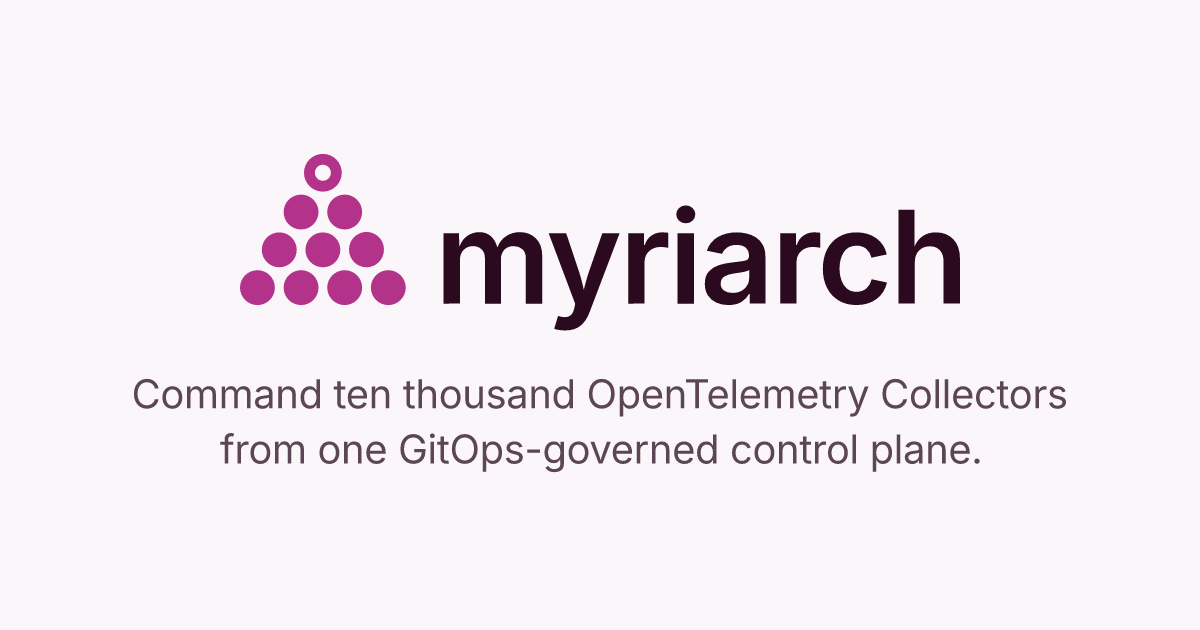
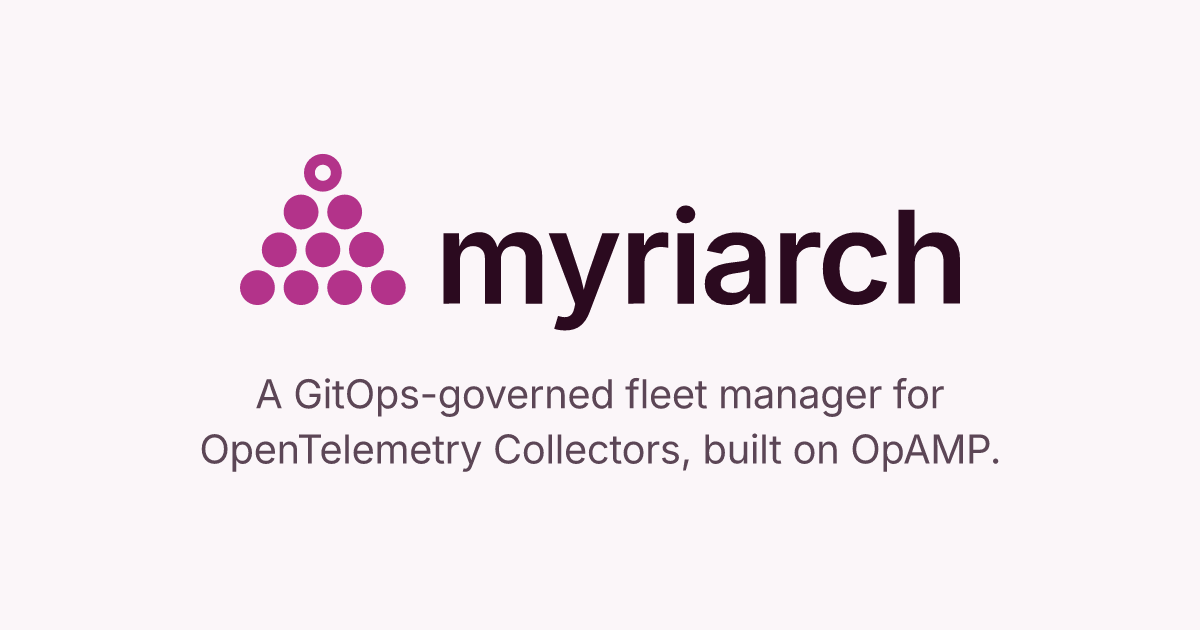
Replace the tagline on the social images with the README tagline
The old line reads as a capacity claim of ten thousand collectors that the
documentation does not back (design target 1,000 with headroom for 5,000).
ADR-0050 proposes the README tagline for the cards and the web UI
description. The record is Proposed; ADR-0015 is unchanged.

Changed region(s): [[0.0925, 0.6032, 0.8942, 0.6635], [0.1542, 0.6937, 0.8325, 0.754]]

diff --git a/web/index.html b/web/index.html
@@ -11,7 +11,7 @@
     <link rel="apple-touch-icon" href="/apple-touch-icon.png" />
     <meta name="viewport" content="width=device-width, initial-scale=1.0" />
     <meta name="color-scheme" content="light dark" />
-    <meta name="description" content="Command ten thousand OpenTelemetry Collectors from one GitOps-governed control plane." />
+    <meta name="description" content="A GitOps-governed fleet manager for OpenTelemetry Collectors, built on OpAMP." />
     <title>myriarch</title>
   </head>
   <body>

diff --git a/assets/brand/source/build.py b/assets/brand/source/build.py
@@ -26,8 +26,8 @@ MARK = Mark(D=12, P=15, S=13, ro=6.5, ri=2.75, apex_step=13.5)
 UNIT = 2 * MARK.ro            # clear-space unit: outer diameter of the open ring
 TRACKING = -0.02              # em, wordmark
 WORD = "myriarch"
-TAGLINE = ("Command ten thousand OpenTelemetry Collectors",
-           "from one GitOps-governed control plane.")
+TAGLINE = ("A GitOps-governed fleet manager for",
+           "OpenTelemetry Collectors, built on OpAMP.")
 SOCIAL_BG = "#FBF6F9"
 TAGLINE_INK = "#5C4656"
 

diff --git a/docs/adr/0050-tagline-backed-by-the-documentation.md b/docs/adr/0050-tagline-backed-by-the-documentation.md
@@ -1,0 +1,35 @@
+# 0050. Tagline backed by the documentation
+
+- Status: Proposed
+- Date: 2026-11-10
+- Related: [ADR-0015](0015-project-name-and-naming-scheme.md), [ADR-0016](0016-trademark-usage-and-name-protection.md), [ADR-0031](0031-website-with-hugo-and-docsy.md)
+
+## Context
+
+[ADR-0015](0015-project-name-and-naming-scheme.md) sets the tagline "Command ten thousand OpenTelemetry Collectors from one GitOps-governed control plane." The tagline is drawn on the Open Graph image of every page of the website and on the GitHub social preview, and it is the meta description of the web UI.
+
+The [architecture document](../architecture.md#scaling) gives 1,000 collectors plus 1,000 updaters, with headroom for 5,000 plus 5,000, and says that the numbers are design targets, not measured limits. The number 10,000 appears only as the default connection limit of one replica (`opamp.maxConnectionsPerReplica`), which counts updaters as well. On a card the line reads as a capacity claim.
+
+## Decision
+
+We use the tagline "A GitOps-governed fleet manager for OpenTelemetry Collectors, built on OpAMP." It is the line of the README and the H1 of the landing page, and it replaces the tagline item of [ADR-0015](0015-project-name-and-naming-scheme.md) on the social images of the website and of the GitHub repository and in the description of the web UI.
+
+The name keeps its meaning: *myriarchos*, "commander of ten thousand", is the origin of the word, as [ADR-0015](0015-project-name-and-naming-scheme.md) and the brand guide say, not a number of collectors. A number of collectors appears only with the caveat of the documentation: designed for around 1,000, with headroom up to 5,000, as design targets, not measured limits.
+
+## Consequences
+
+### Positive
+
+- The cards agree with the pages they preview and with the README and the GitHub description, as the honesty rule of the project requires.
+
+### Negative
+
+- The wordplay of the line is gone.
+- Platforms show the old card until they scrape the page again.
+- Once the record is accepted, ADR-0015 and the index must name it.
+
+## Alternatives considered
+
+- **Keep the tagline**: it reads as a capacity claim.
+- **Keep it in the brand guide only and use another line on the cards**: two taglines, and still a record.
+- **A line with a number**: a number on a card loses its caveat.

diff --git a/docs/adr/README.md b/docs/adr/README.md
@@ -62,5 +62,6 @@ Some early operational decisions were not kept as separate records. They are des
 | [0037](0037-opamp-bridge-agents-until-the-operator-integration.md) | OpAMP Bridge agents are recognised and locked until the Operator integration | Accepted |
 | [0038](0038-dependency-license-policy.md) | Dependency license policy: a tripwire on the CNCF allowlist for pull requests, a narrower allowlist for releases | Accepted |
 | [0046](0046-host-installation-from-the-server.md) | Host installation from the server: versions, artifacts and the installer bundle as data, integrity anchored on the host | Accepted |
+| [0050](0050-tagline-backed-by-the-documentation.md) | Tagline backed by the documentation | Proposed |
 
 Two later records change earlier decisions: [ADR-0024](0024-container-registry-and-image-set.md) supersedes the "own combined image" aspect of [ADR-0008](0008-kubernetes-supervisor-and-collector-in-one-pod.md) for published artifacts, and [ADR-0026](0026-collector-version-updates-on-kubernetes.md) refines [ADR-0008](0008-kubernetes-supervisor-and-collector-in-one-pod.md) and [ADR-0014](0014-binary-updates-in-the-pod-via-container-mode.md) (gitops-pr as the Kubernetes default, container mode as an opt-in).

diff --git a/assets/brand/README.md b/assets/brand/README.md
@@ -28,6 +28,8 @@ reach every collector. The colour is Tyrian purple, the costly dye that marked r
 | `social-preview.svg`, `og-image.svg` | Vector sources of the two social images. |
 | `source/` | The generator that produces every file above (see [Production](#production)). |
 
+Both social images carry the tagline of [ADR-0050](../../docs/adr/0050-tagline-backed-by-the-documentation.md): "A GitOps-governed fleet manager for OpenTelemetry Collectors, built on OpAMP." The name means "commander of ten thousand" (see above); the cards state no number of collectors.
+
 All SVGs are plain filled paths: no `<text>`, no embedded raster images, no scripts and no external references.
 Each has a tight `viewBox` and explicit `width` and `height`, plus `role="img"`, `aria-label` and `<title>`.
 
